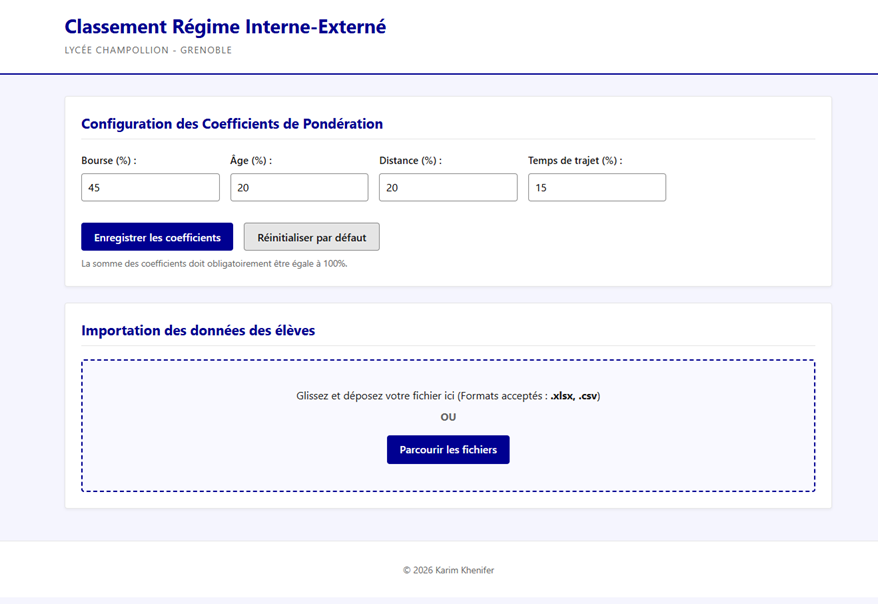
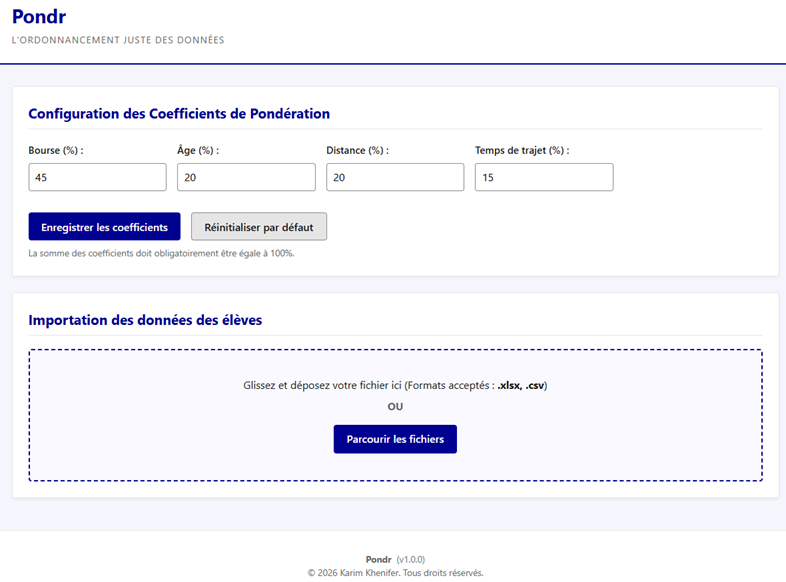
Add files via upload
Mise à jour du dossier des screenshots + modification du h2 dans la section "results-section".

diff --git a/index.html b/index.html
@@ -86,7 +86,7 @@
 
         <section id="results-section" class="card results-card hidden" aria-labelledby="results-title">
             <div class="results-header">
-                <h2 id="results-title">Classement Général Internat-Externé</h2>
+                <h2 id="results-title">Résultats de l'ordonnancement</h2>
                 <div class="export-actions">
                     <button id="btn-export-excel" class="btn btn-export excel">Exporter vers Excel (.xlsx)</button>
                     <button id="btn-export-csv" class="btn btn-export csv">Exporter en CSV (.csv)</button>